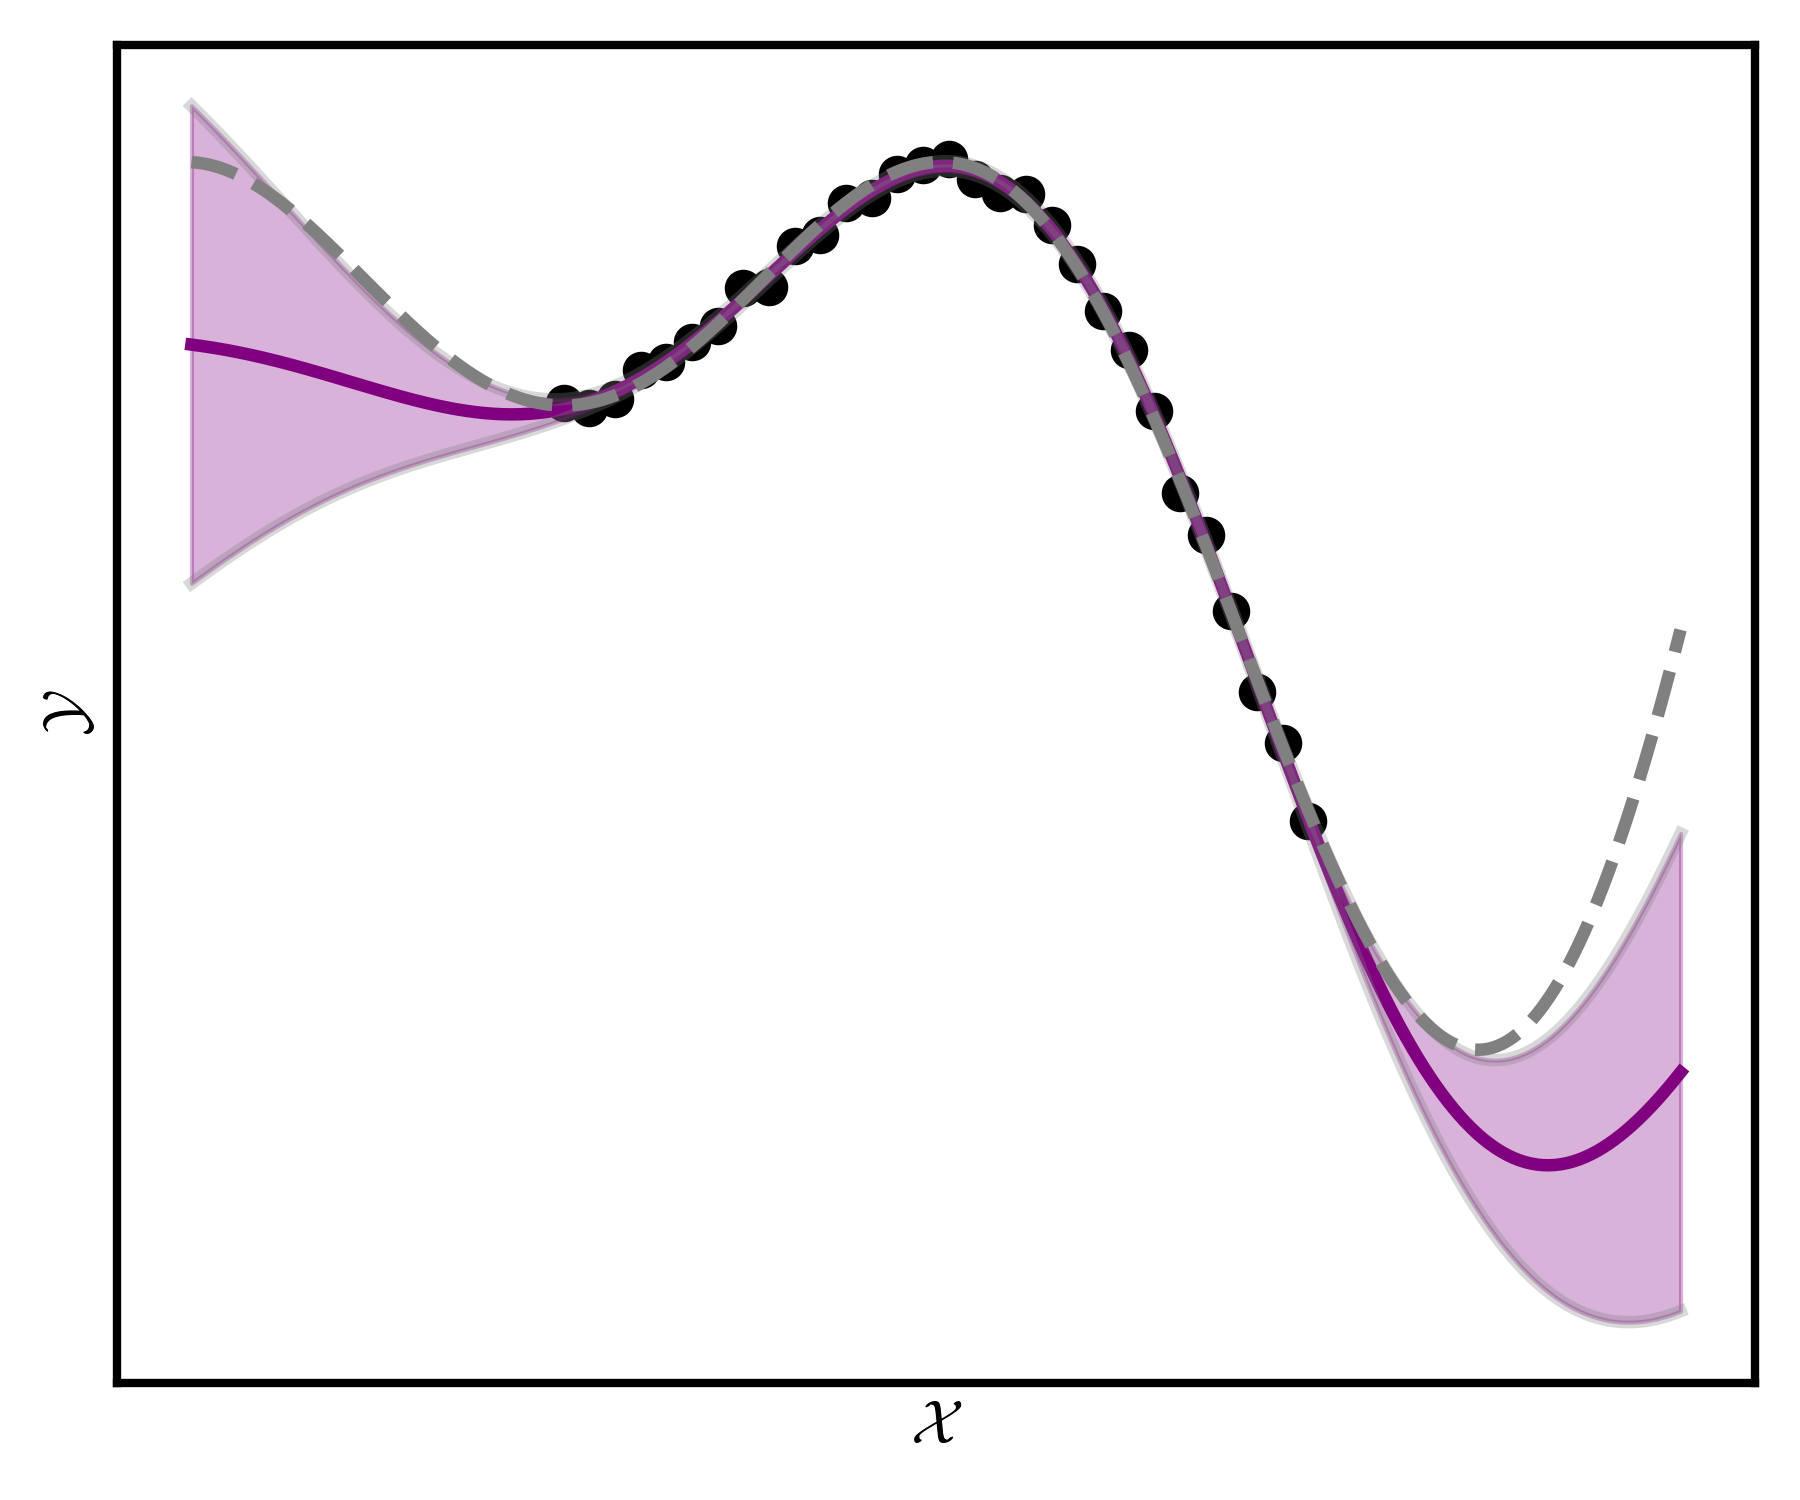
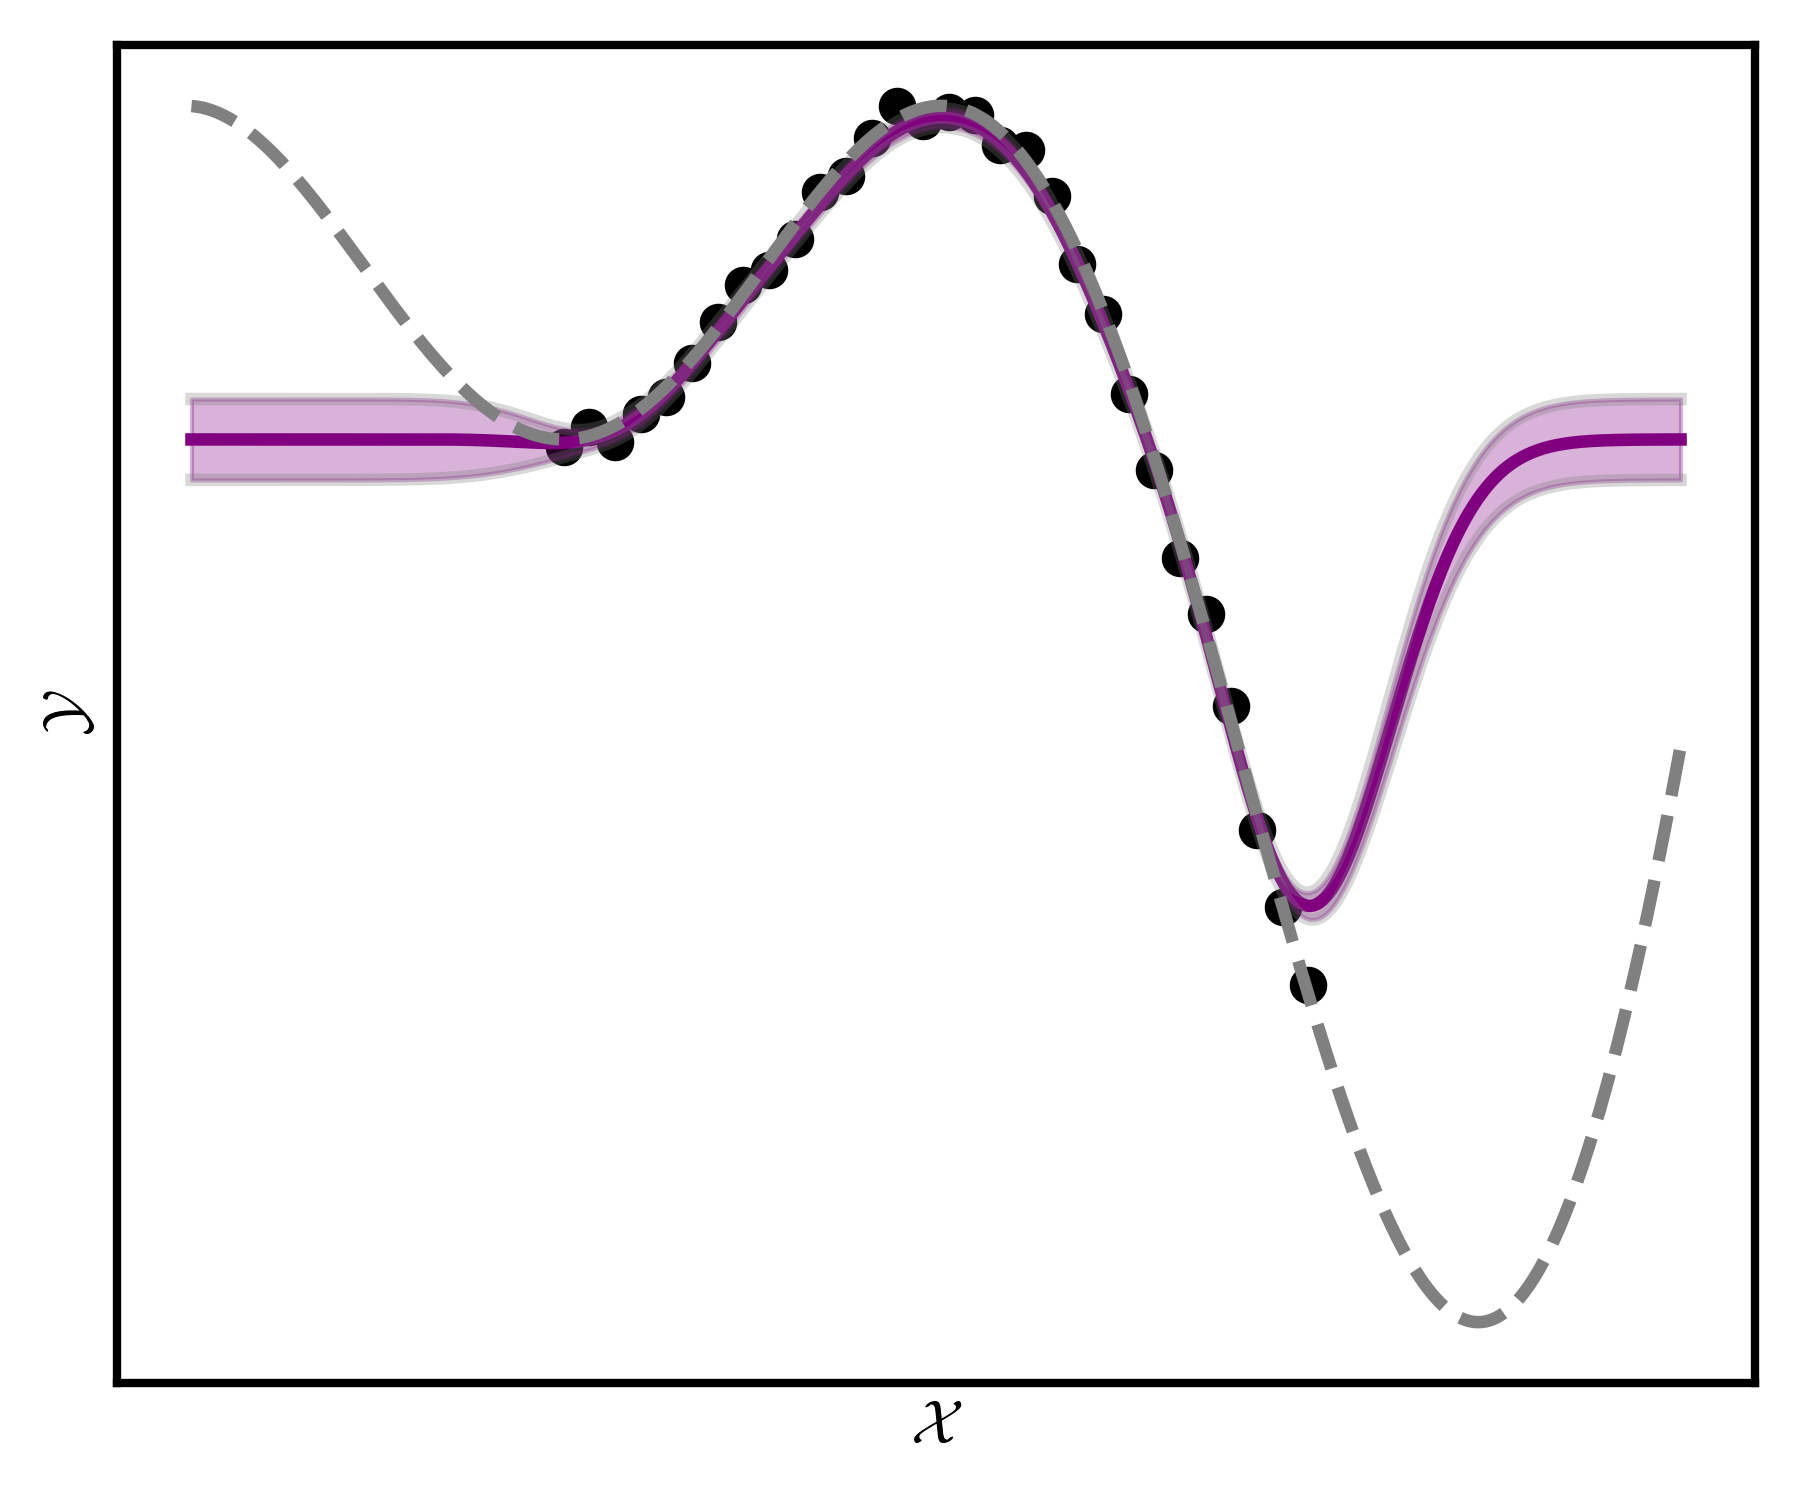
implemented preconditioner

Changed region(s): [[0.0933, 0.0613, 0.9333, 0.8893]]

diff --git a/src/linalg/preconditioned_conjugate_gradient.py b/src/linalg/preconditioned_conjugate_gradient.py
@@ -41,12 +41,13 @@ def pcg(A, b, maxiter=None, tol=1e-8):
     return x
 
 
-def pcg_winv(A, b, maxiter=None, rtol=1e-6, atol=1e-6):
+def pcg_winv(A, b, maxiter=None, rtol=1e-6, atol=1e-6, P=None):
     """
     Conjugate gradient method
 
     Parameters
     ----------
+    P
     atol
     rtol
     A
@@ -62,6 +63,11 @@ def pcg_winv(A, b, maxiter=None, rtol=1e-6, atol=1e-6):
     if maxiter is None:
         maxiter = 10 * n
 
+    if P is None:
+        P = np.eye(n)
+
+    invP = mat_inv_lemma(np.eye(n), P, np.eye(n), np.eye(n))
+
     x = np.zeros(n)  # initial solution guess
     C = np.zeros_like(A)  # inverse approximation
     r = b - A @ x  # initial residual
@@ -69,7 +75,7 @@ def pcg_winv(A, b, maxiter=None, rtol=1e-6, atol=1e-6):
     tol = max(rtol * np.linalg.norm(b), atol)  # threshold
     while np.linalg.norm(r) > tol:  # CG loop
         r = b - A @ x  # residual
-        s = r  # action
+        s = invP @ r  # action (NEW)
         alpha = s.T @ r  # observation
         d = (np.eye(n) - C @ A) @ s  # search direction
         eta = s.T @ (A @ d)  # normalization constant
@@ -81,6 +87,19 @@ def pcg_winv(A, b, maxiter=None, rtol=1e-6, atol=1e-6):
             return x, C
 
     return x, C
+
+
+def mat_inv_lemma(A, U, C, V):
+    # Invert the matrix A
+    A_inv = np.linalg.inv(A)
+
+    # Compute the intermediate matrix (C^{-1} + V A^{-1} U)^{-1}
+    inter_matrix = np.linalg.inv(C + V @ A_inv @ U)
+
+    # Compute the inverted matrix using the matrix inversion lemma
+    inv_mat = A_inv - A_inv @ U @ inter_matrix @ V @ A_inv
+
+    return inv_mat
 
 
 if __name__ == "__main__":

diff --git a/src/solver/classic/pcg.py b/src/solver/classic/pcg.py
@@ -1,7 +1,8 @@
 import numpy as np
 from src.utils.utils import spd
 from src.solver.solver import Solver
-from src.linalg.conjugate_gradient import cg, cg_winv
+from src.linalg.preconditioned_conjugate_gradient import pcg, pcg_winv
+from src.linalg.cholesky import cholesky
 
 
 class PCG(Solver):
@@ -12,23 +13,28 @@ class PCG(Solver):
         self.rank = rank
         self.tol = tol
         self.invM = None
+        self.P = None
 
     def solve(self):
         """
         Solve the linear system of equations Ax=b using the conjugate gradient method
         """
 
-        self.x, self.invM = cg_winv(A=self.A,
-                                    b=self.b,
-                                    maxiter=self.rank,
-                                    atol=self.tol,
-                                    rtol=self.tol)
+        L, _ = cholesky(self.A, p=5, rnd_idx=True)
+
+        self.P = L @ L.T
+
+        self.x, self.invM = pcg_winv(A=self.A,
+                                     b=self.b,
+                                     maxiter=self.rank,
+                                     atol=self.tol,
+                                     rtol=self.tol,
+                                     P=self.P)
 
         return self.x
 
 
 if __name__ == "__main__":
-
     # fix random seed
     np.random.seed(42)
 

diff --git a/examples/example_gpr.py b/examples/example_gpr.py
@@ -5,6 +5,7 @@ from src.utils.utils import data_from_func
 from input.testfuncs_1d import oscillatory_increasing_amplitude
 from src.solver.classic.cg import CG
 from src.solver.classic.chol import Cholesky
+from src.solver.classic.pcg import PCG
 
 # choose function
 func = oscillatory_increasing_amplitude
@@ -18,7 +19,8 @@ eps = 0.1
 
 # choose solver
 # solver = Cholesky(rank=10, rnd_idx=True)
-solver = CG(rank=10)
+# solver = CG(rank=10)
+solver = PCG(rank=10)
 # solver = None
 
 # choose preconditioner
